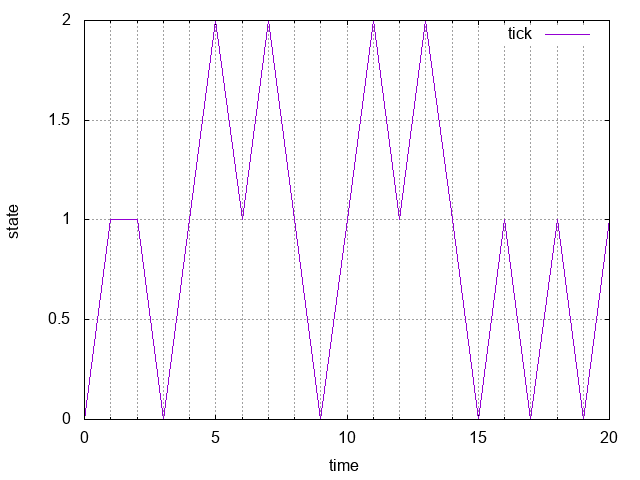
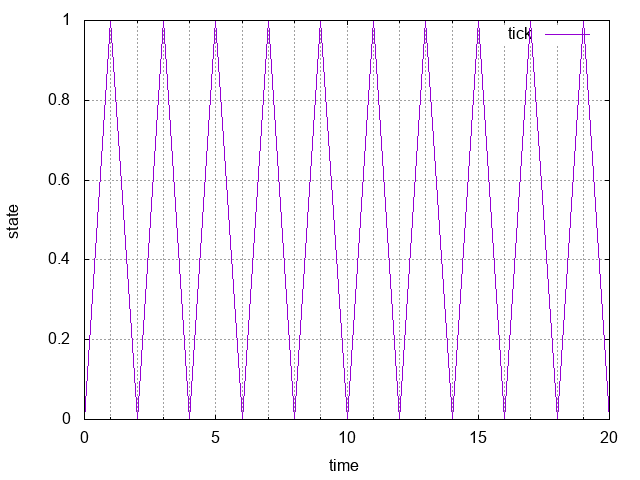
Render DTMC with example

diff --git a/examples/DTMC.js b/examples/DTMC.js
@@ -11,7 +11,7 @@ var transMatrixTwo = [
     [0, 1, 0]
 ];
 
-var DTMC = stoch.DTMC(transMatrixTwo, 20, 0, true);
+var DTMC = stoch.DTMC([[0,1],[1,0]], 20, 0, true);
 
 console.log(DTMC);
 
